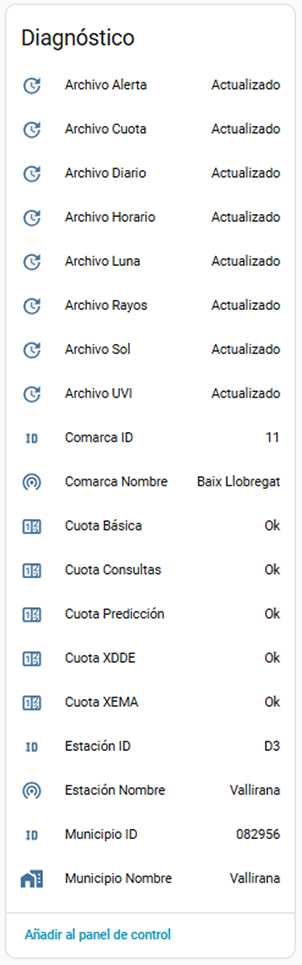
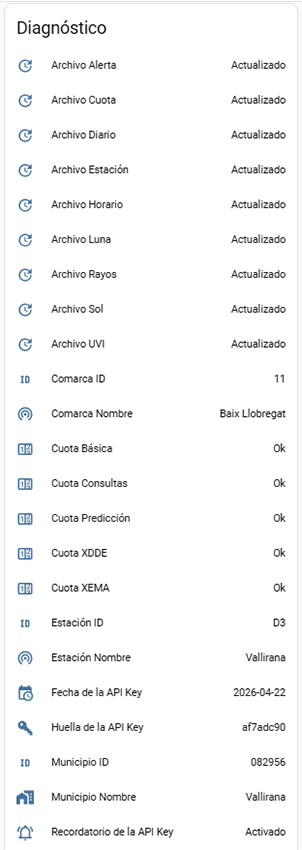
docs: refresh diagnostic sensors image and Marketplace install steps

diff --git a/README.md b/README.md
@@ -2,7 +2,7 @@
 ![Meteocat Banner](images/banner.png)
 [![License](https://img.shields.io/badge/License-Apache%202.0-blue.svg)](https://opensource.org/licenses/Apache-2.0)
 ![Python](https://img.shields.io/badge/Language-Python-blue)
-[![hacs_badge](https://img.shields.io/badge/HACS-Default-orange.svg)](https://github.com/hacs/integration)
+[![Marketplace](https://img.shields.io/badge/Marketplace-Default-orange.svg)](https://www.home-assistant.io/integrations/marketplace/)
 [![Validate](https://github.com/figorr/meteocat/actions/workflows/validate.yaml/badge.svg)](https://github.com/figorr/meteocat/actions/workflows/validate.yaml)
 [![Release](https://github.com/figorr/meteocat/actions/workflows/release.yml/badge.svg)](https://github.com/figorr/meteocat/actions/workflows/release.yml)
 ![GitHub all releases](https://img.shields.io/github/downloads/figorr/meteocat/total)
@@ -92,16 +92,30 @@ If you (or Home Assistant) ever regenerate an entity ID (e.g. by using *Recreate
 
 ## Installation
 
-#### HACS - Install using the custom repository method.
+Starting with Home Assistant 2026.11, [HACS is built into Home Assistant as the Marketplace](https://www.home-assistant.io/integrations/marketplace/). On Home Assistant 2026.10 or older, use the HACS instructions below.
 
-1. First of all you need to add a custom repository like [this](https://hacs.xyz/docs/faq/custom_repositories/).
-1. Then download the integration from HACS.
-1. Restart Home Assistant.
-1. Go to `Settings > Devices & Services`
-1. Click `+ Add Integration`
-1. Search for `Meteocat` and follow the configuration instructions
+### Home Assistant 2026.11 or newer - Marketplace
 
-#### HACS - Install from the store
+#### Install from the catalog
+
+1. Go to `Settings > Marketplace`
+1. Search for `Meteocat` and open its repository page
+1. Select `Install` and follow the configuration instructions
+1. Restart Home Assistant only if it asks you to do so
+
+#### Install using a custom repository
+
+Use this only if `Meteocat` is not available in the Marketplace catalog.
+
+1. Go to `Settings > Marketplace`
+1. Select `Add from link` and enter `https://github.com/figorr/meteocat`
+1. Select `Add`. A GitHub connection is required for custom repositories
+1. Open the `Meteocat` repository, select `Install`, and follow the configuration instructions
+
+### Home Assistant 2026.10 or older - HACS
+
+#### Install from the store
+
 1. Go to `HACS`
 1. Search for `Meteocat` and add it to HACS
 1. Restart Home Assistant
@@ -109,7 +123,17 @@ If you (or Home Assistant) ever regenerate an entity ID (e.g. by using *Recreate
 1. Click `+ Add Integration`
 1. Search for `Meteocat` and follow the configuration instructions
 
-#### Manually
+#### Install using a custom repository
+
+1. Add a custom repository as described in the [HACS documentation](https://hacs.xyz/docs/faq/custom_repositories/)
+1. Download the integration from HACS
+1. Restart Home Assistant
+1. Go to `Settings > Devices & Services`
+1. Click `+ Add Integration`
+1. Search for `Meteocat` and follow the configuration instructions
+
+### Manually
+
 Copy the `custom_components/meteocat` folder into the config folder.
 
 ## Configuration
@@ -225,7 +249,7 @@ To correctly uninstall the integration:
 
 - If you are upgrading due to **breaking changes**, remove all configured entries from  
   **Settings > Devices & Services > Integrations**, restart Home Assistant, and reinstall the new version.  
-- If you want to **completely remove Meteocat**, after removing the entries and restarting, also uninstall the integration from **HACS > Integrations**.
+- If you want to **completely remove Meteocat**, after removing the entries and restarting, uninstall the integration from the **Marketplace** on Home Assistant 2026.11 or newer (open the `Meteocat` repository, then select the three dots menu > `Uninstall`) or from **HACS > Integrations** on Home Assistant 2026.10 or older.
 
 👉 For detailed steps with screenshots, check the [Uninstallation Guide](https://github.com/figorr/meteocat/wiki/Uninstallation).
 
